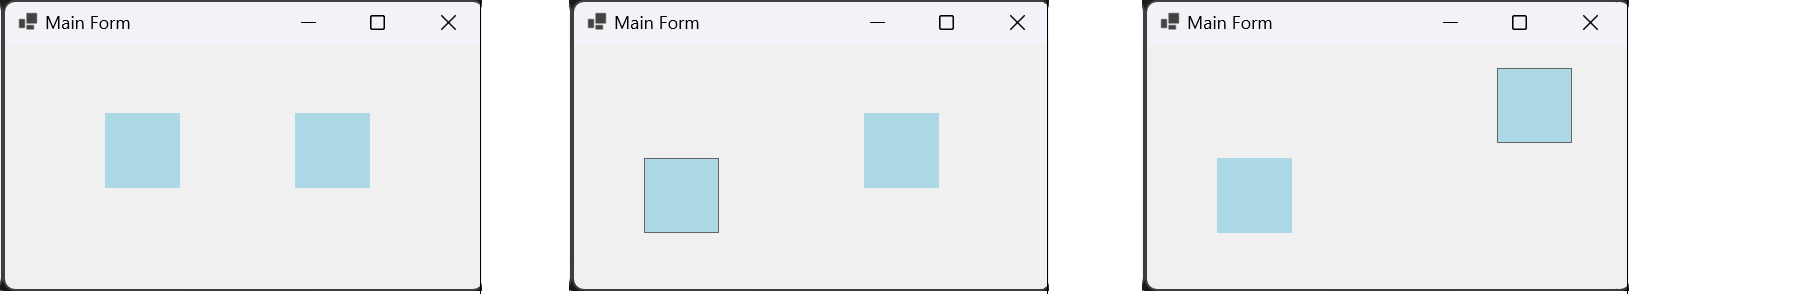
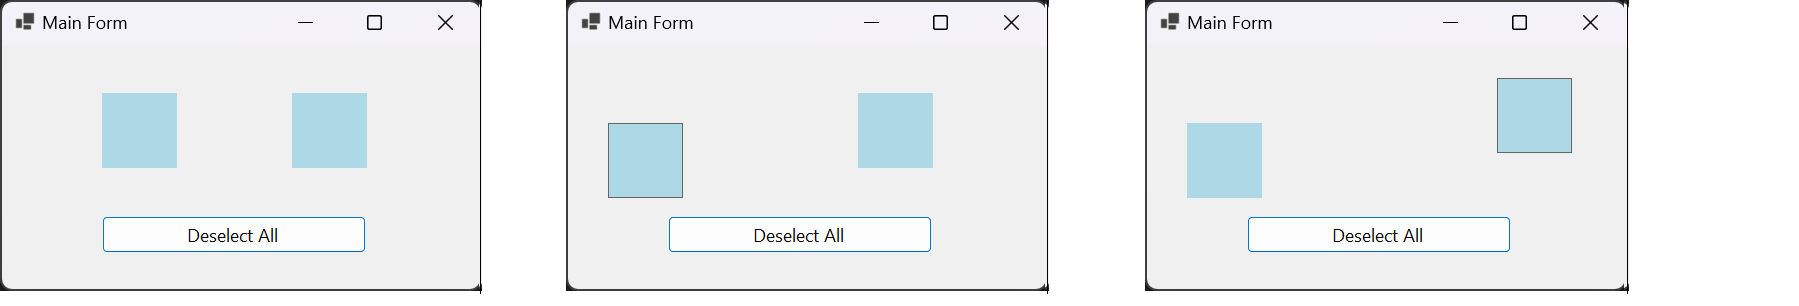
inprog++

diff --git a/arrow-keys-move-button/MainForm.Designer.cs b/arrow-keys-move-button/MainForm.Designer.cs
@@ -30,14 +30,15 @@
         {
             pictureBox1 = new PictureBoxEx();
             pictureBox2 = new PictureBoxEx();
+            buttonDeselect = new Button();
             ((System.ComponentModel.ISupportInitialize)pictureBox1).BeginInit();
+            ((System.ComponentModel.ISupportInitialize)pictureBox2).BeginInit();
             SuspendLayout();
             // 
             // pictureBox1
             // 
             pictureBox1.BackColor = Color.LightBlue;
-            pictureBox1.BorderStyle = BorderStyle.None;
-            pictureBox1.Location = new Point(100, 68);
+            pictureBox1.Location = new Point(100, 48);
             pictureBox1.Name = "pictureBox1";
             pictureBox1.Size = new Size(75, 75);
             pictureBox1.TabIndex = 0;
@@ -46,24 +47,34 @@
             // pictureBox2
             // 
             pictureBox2.BackColor = Color.LightBlue;
-            pictureBox2.BorderStyle = BorderStyle.None;
-            pictureBox2.Location = new Point(290, 68);
+            pictureBox2.Location = new Point(290, 48);
             pictureBox2.Name = "pictureBox2";
             pictureBox2.Size = new Size(75, 75);
             pictureBox2.TabIndex = 1;
             pictureBox2.TabStop = false;
+            // 
+            // buttonDeselect
+            // 
+            buttonDeselect.Location = new Point(100, 171);
+            buttonDeselect.Name = "buttonDeselect";
+            buttonDeselect.Size = new Size(264, 37);
+            buttonDeselect.TabIndex = 2;
+            buttonDeselect.Text = "Deselect All";
+            buttonDeselect.UseVisualStyleBackColor = true;
             // 
             // MainForm
             // 
             AutoScaleDimensions = new SizeF(10F, 25F);
             AutoScaleMode = AutoScaleMode.Font;
             ClientSize = new Size(478, 244);
+            Controls.Add(buttonDeselect);
             Controls.Add(pictureBox1);
             Controls.Add(pictureBox2);
             Name = "MainForm";
             StartPosition = FormStartPosition.CenterScreen;
             Text = "Main Form";
             ((System.ComponentModel.ISupportInitialize)pictureBox1).EndInit();
+            ((System.ComponentModel.ISupportInitialize)pictureBox2).EndInit();
             ResumeLayout(false);
         }
 
@@ -71,5 +82,6 @@
 
         private PictureBoxEx pictureBox1;
         private PictureBoxEx pictureBox2;
+        private Button buttonDeselect;
     }
 }

diff --git a/arrow-keys-move-button/MainForm.cs b/arrow-keys-move-button/MainForm.cs
@@ -6,19 +6,48 @@ namespace arrow_keys_move_button
 {
     public partial class MainForm : Form
     {
-        public MainForm() => InitializeComponent();
+        public MainForm()
+        {
+            InitializeComponent();
+            buttonDeselect.Click += (sender, e) =>
+            {
+                foreach (var pb in Controls.OfType<PictureBoxEx>())
+                {
+                    pb.BorderStyle = BorderStyle.None;
+                }
+            };
+        }
     }
-    class PictureBoxEx : PictureBox
+    class PictureBoxEx : PictureBox, IMessageFilter
     {
+        public PictureBoxEx()
+        {
+            Application.AddMessageFilter(this);
+            Disposed += (sender, e) => Application.RemoveMessageFilter(this);
+        }
         protected override void OnMouseDown(MouseEventArgs e)
         {
             base.OnMouseDown(e);
-            Focus();
-            foreach (var pb in Parent.Controls.OfType<PictureBoxEx>())
+            if (ModifierKeys != Keys.Control)   // Allow multiple select.
             {
-                pb.BorderStyle = BorderStyle.None;
+                foreach (var pb in Parent.Controls.OfType<PictureBoxEx>())
+                {
+                    pb.BorderStyle = BorderStyle.None;
+                }
             }
             BorderStyle = BorderStyle.FixedSingle;
+        }
+        private const int WM_KEYDOWN = 0x0100;
+        public bool PreFilterMessage(ref Message m)
+        {
+            if ((m.Msg == WM_KEYDOWN) && (BorderStyle == BorderStyle.FixedSingle))
+            {
+
+                var e = new KeyEventArgs(((Keys)m.WParam) | Control.ModifierKeys);
+                OnKeyDown(e);
+                return (e.Handled);
+            }
+            return false;
         }
         protected override void OnKeyDown(KeyEventArgs e)
         {

diff --git a/README.md b/README.md
@@ -1,8 +1,8 @@
 # Arrow Keys Move Button
 
-Key messages go to the control that has focus and chances are that is 'not' the main `Form`. Subscribing to `Form1_KeyDown` is unlikely to be called and doubtful to move the picture box as you have observed. 
+Key messages go to the control that has focus and chances are that is 'not' the main `Form`. Subscribing to `Form1_KeyDown` is unlikely to be called and doubtful to move the picture box. As you have observed **when buttons are introduced in the form** what changes is that one of those buttons will get the focus, and whichever one happens to have the focus will get the key events.
 
-What will help here is intercepting the _unfiltered_ **Win32** [WM_KEYDOWN](https://learn.microsoft.com/en-us/windows/win32/inputdev/wm-keydown) message with `override WndProc()` to do it. Try something like this:
+Try intercepting the **Win32** [WM_KEYDOWN](https://learn.microsoft.com/en-us/windows/win32/inputdev/wm-keydown) message with `override WndProc()` before it gets dispatched to the focused control as shown here. This should move the picture box as you intend.
 
 ```
 public partial class MainForm : Form
@@ -11,7 +11,6 @@ public partial class MainForm : Form
     protected override void WndProc(ref Message m)
     {
         base.WndProc(ref m);
-
         if (m.Msg == WM_KEYDOWN)
         {
             var e = new KeyEventArgs(((Keys)m.WParam) | Control.ModifierKeys);
@@ -34,20 +33,19 @@ public partial class MainForm : Form
     private void onMoveUp() => 
         pictureBox1.Location = new Point(pictureBox1.Location.X, pictureBox1.Location.Y - 15);
     private void onMoveRight() =>
-        pictureBox1.Location = new Point(pictureBox1.Location.X + 15,
-            pictureBox1.Location.Y);
+        pictureBox1.Location = new Point(pictureBox1.Location.X + 15,  pictureBox1.Location.Y);
     private void onMoveDown() =>
         pictureBox1.Location = new Point(pictureBox1.Location.X, pictureBox1.Location.Y + 15);
     private const int WM_KEYDOWN = 0x0100;
     private const int WM_HOTKEY = 0x0312;
 }
 ```
-
 ___
+**Alternative**
 
-Now, you're probably thinking, "If all that's is true, why not just click-to-focus the `PictureBox` that I want to move, and handle key events that it's already receiving now that is has focus?" 
+Since key events on their own behave in a way that doesn't meet the objective, it's much cleaner to inherit from `PictureBox` to make a control that can focus and knows how to move _itself_ by handling key events that it would receive once it has focus. 
 
-Yes, and to make it easier still, let's just inherit from `PictureBox` to make a control that knows how to move _itself_ and then go to the Designer.cs file and swap out instances of `PictureBox` for our extended class `PictureBoxEx`. This makes the `Form` class very simple as well.
+To use this control, go to the Designer.cs file and swap out instances of `PictureBox` for extended class `PictureBoxEx`. Here's the final, alternative solution with the `Form` class simplified as a result.
 
 ```
 public partial class MainForm : Form
@@ -57,10 +55,16 @@ public partial class MainForm : Form
 
 class PictureBoxEx : PictureBox
 {
+    // PictureBox is not focusable by default so we do it ourselves.
     protected override void OnMouseDown(MouseEventArgs e)
     {
         base.OnMouseDown(e);
-        Focus();    // PictureBox is not focusable by default.
+        Focus();
+        foreach (var pb in Parent.Controls.OfType<PictureBoxEx>())
+        {
+            pb.BorderStyle = BorderStyle.None;
+        }
+        BorderStyle = BorderStyle.FixedSingle;   
     }
     protected override void OnKeyDown(KeyEventArgs e)
     {
@@ -82,5 +86,5 @@ class PictureBoxEx : PictureBox
         }
     }
 }
-```
+
 
